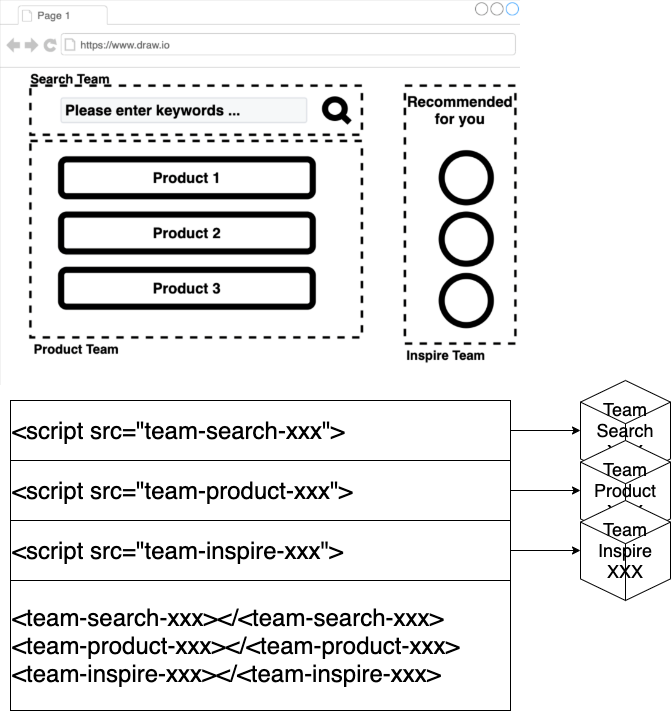
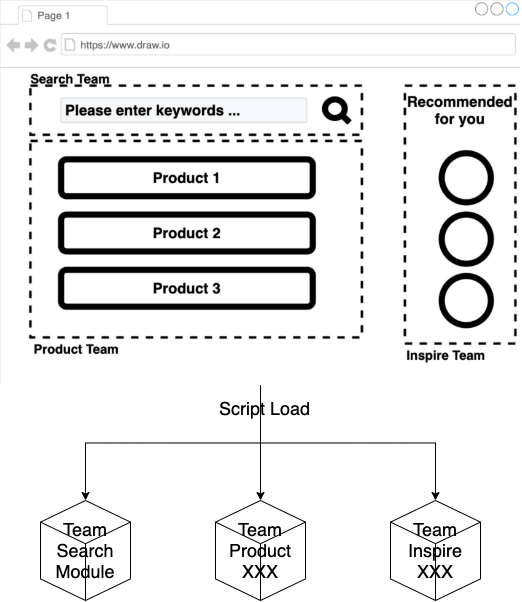
update contents

Changed region(s): [[0.0, 0.0, 1.0, 1.0], [0.8582, 0.2392, 0.9502, 0.3289]]

diff --git a/contents/tutorial/23_build_time_composition_tutorial.md b/contents/tutorial/23_build_time_composition_tutorial.md
@@ -1,11 +1,18 @@
 # ビルドタイム組成 - チュートリアル {#build-time-composition-tutorial}
 
+　ビルドタイム組成は、次のような構成図を想定する。
+
 ![build_time_composition_tutorial](../../assets/images/drawio/tutorial/build_time_composition_tutorial.png)
+
+先に、組成している部分を紹介する。
+まず、次のようなHTMLを使う。
 
 ```html
 <!-- team_composite/public/index.html -->
 <div id="root"></div>
 ```
+
+次に、`#root` に対して `ReactDOM.render` を実行する。
 
 ```javascript
 // team-composite/src/index.js
@@ -21,6 +28,8 @@ ReactDOM.render(
 );
 ```
 
+そのレンダリングで、`App.js` というものがある。
+
 ```javascript
 // team_composite/src/App.js
 import TeamSearchText from '@bit/silver-birder.micro-frontends-sample-collections.team-search-text'
@@ -34,6 +43,9 @@ function App() {
 }
 export default App;
 ```
+
+こちらにあるとおり、`App.js` には `@bit/silver-birder.*` というモジュールをimportしている。
+そのモジュールは、次のようなものである。
 
 ```javascript
 // team_search/src/components/team-search-text/index.js
@@ -49,3 +61,5 @@ export default class TeamSearchText extends Component {
     }
 }
 ```
+
+このコードは、[bit.dev](https://bit.dev/)でprivateに公開している。

diff --git a/contents/tutorial/21_client_side_composition_tutorial.md b/contents/tutorial/21_client_side_composition_tutorial.md
@@ -1,17 +1,28 @@
 # クライアントサイド組成 - チュートリアル {#client-side-composition-tutorial}
 
+クライアントサイド組成は、次のような構成図を想定する。
+
 ![client_side_composition_tutorial](../../assets/images/drawio/tutorial/client_side_composition_tutorial.png)
+
+先に、組成している部分を紹介する。
 
 ```html
 <!-- team-composite/index.html -->
-<team-search-text .title="Text"></team-search-text>
 <script type="module" src="./search/team-search-text.js" defer></script>
+<team-search-text .title="Text"></team-search-text>
 ```
 
+このように、Search Teamから提供されるカスタム要素モジュールを読み込む。
+カスタム要素モジュールは、次のようなコードになる。
+
 ```javascript
-// team-search-text/index.js
-export { TeamSearchText } from './src/TeamSearchText.js';
+// team-search-text/team-search-text.js
+import { TeamSearchText } from './src/TeamSearchText.js';
+window.customElements.define('team-search-text', TeamSearchText);
 ```
+
+team-search-textと呼ばれるカスタム要素を定義している。
+team-search-textの詳細は、次のとおりである。
 
 ```javascript
 // team-search-text/src/TeamSearchText.js
@@ -32,4 +43,3 @@ export class TeamSearchText extends LitElement {
   }
 }
 ```
-

diff --git a/contents/tutorial/22_server_side_composition_tutorial.md b/contents/tutorial/22_server_side_composition_tutorial.md
@@ -1,6 +1,10 @@
 # サーバーサイド組成 - チュートリアル {#server-side-composition-tutorial}
 
+サーバーサイド組成は、次のような構成図を想定する。
+
 ![server_side_composition_tutorial](../../assets/images/drawio/tutorial/server_side_composition_tutorial.png)
+
+先に、組成している部分を紹介する。
 
 ```javascript
 // team_composite/serve.js
@@ -18,6 +22,9 @@ app.listen(port, () => {
 });
 ```
 
+サーバーサイドでレンダリングする際、SEARCH_HOSTへ問い合わせた結果を使っている。
+SEARCH_HOSTでは、次のようなサーバーサイドレンダリングをしている。
+
 ```javascript
 // team_search/serve.js
 const express = require('express')
@@ -30,3 +37,5 @@ app.listen(port, () => {
   console.log(`Team Search app listening at http://localhost:${port}`)
 })
 ```
+
+これにより、`Team Search` という結果が返却される。

diff --git a/contents/tutorial/20_overview_tutorial.md b/contents/tutorial/20_overview_tutorial.md
@@ -1,6 +1,6 @@
 # チュートリアル {#tutorial}
 ## 概要 {#overview-of-tutorial}
 
-本章では、実際にマイクロフロントエンドを開発する。
+本章では、実際にマイクロフロントエンドを意識した開発する。
 サンプルソースコードは、次のリポジトリにある。
 [micro-frontends-sample-codes](https://github.com/Silver-birder/micro-frontends-sample-codes)
